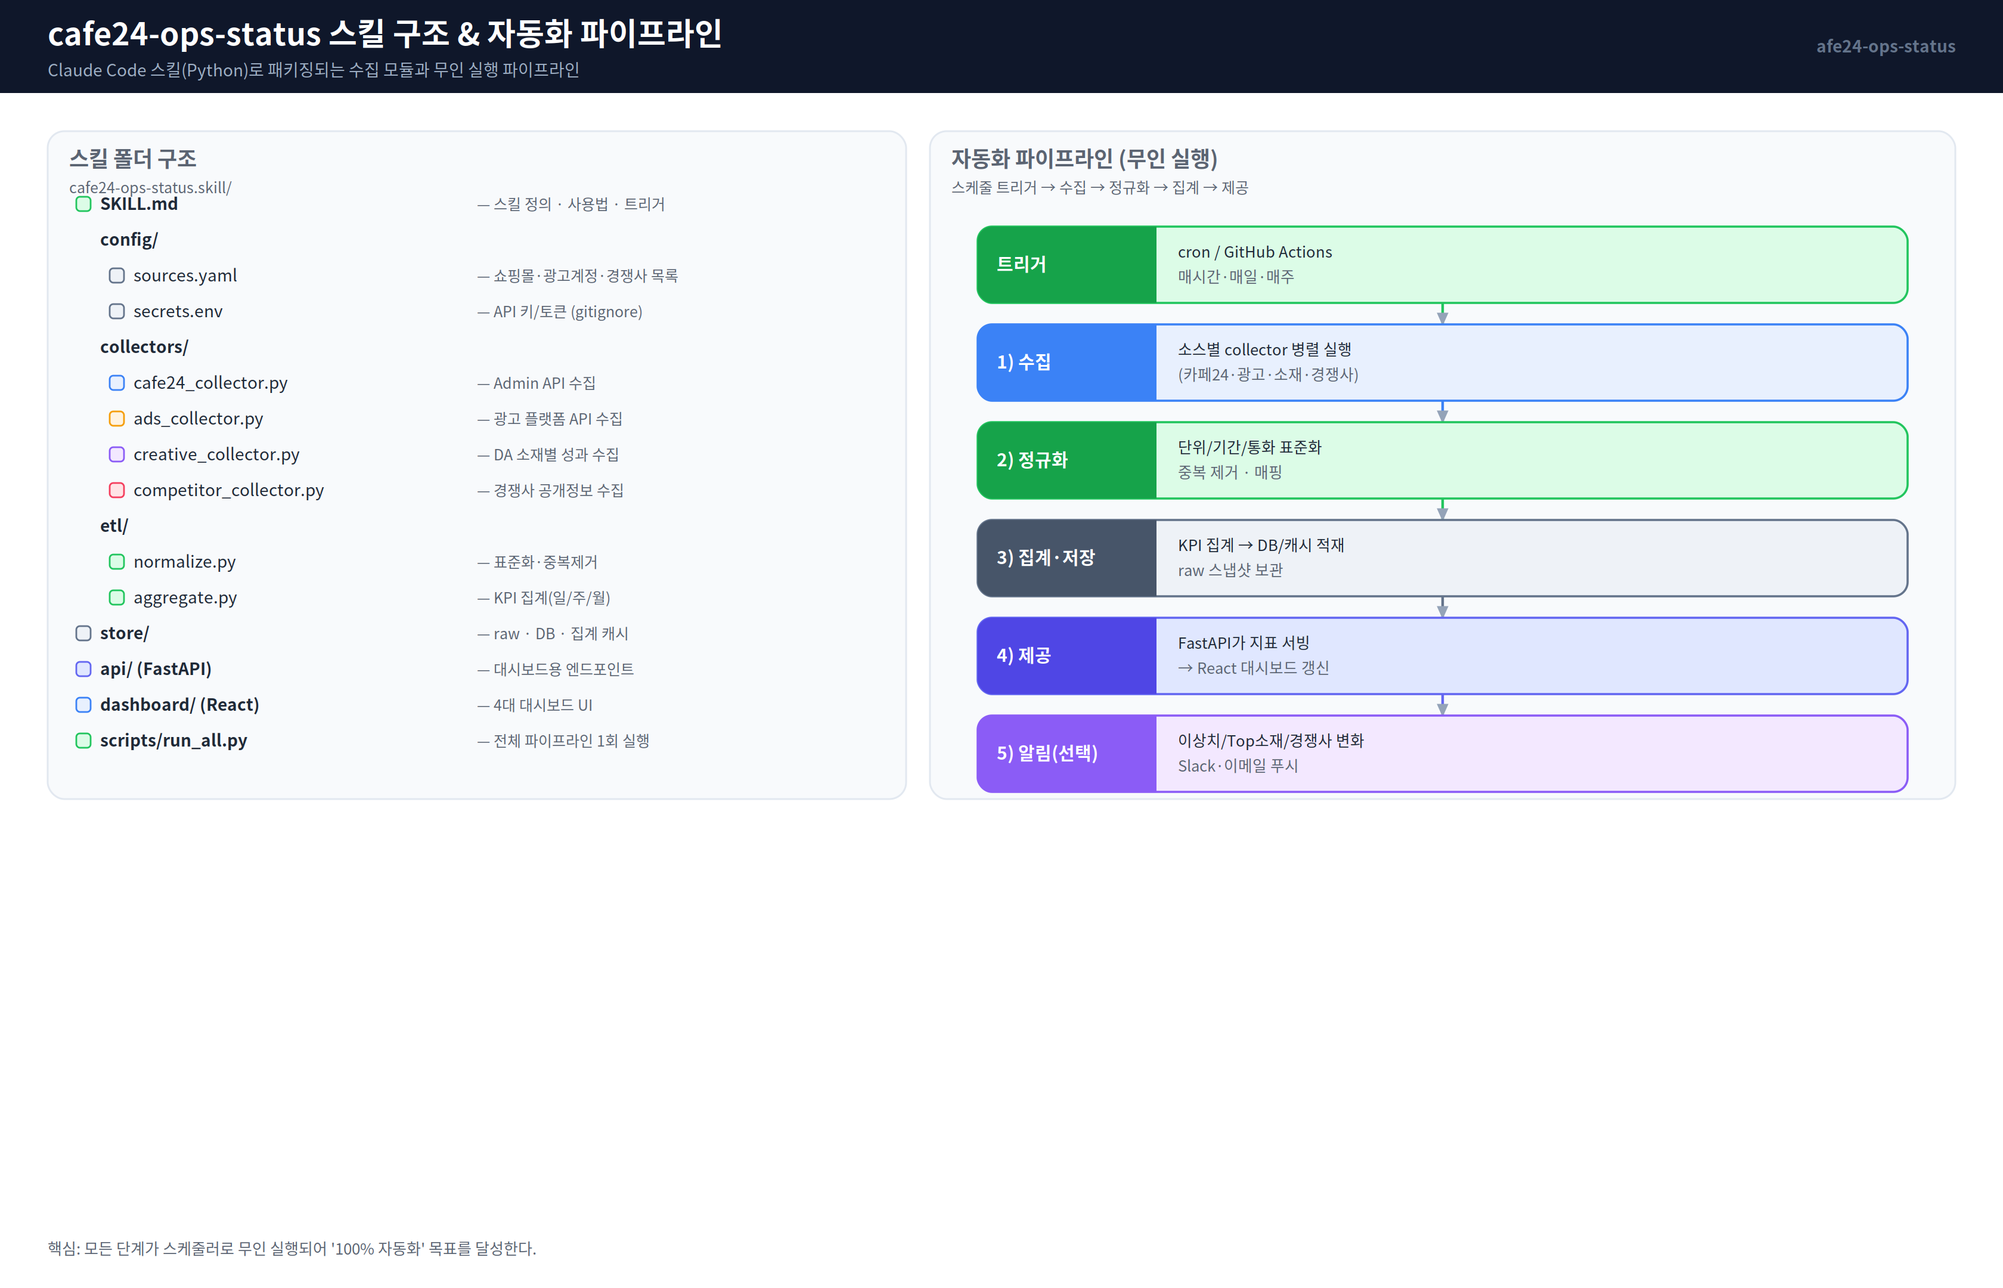
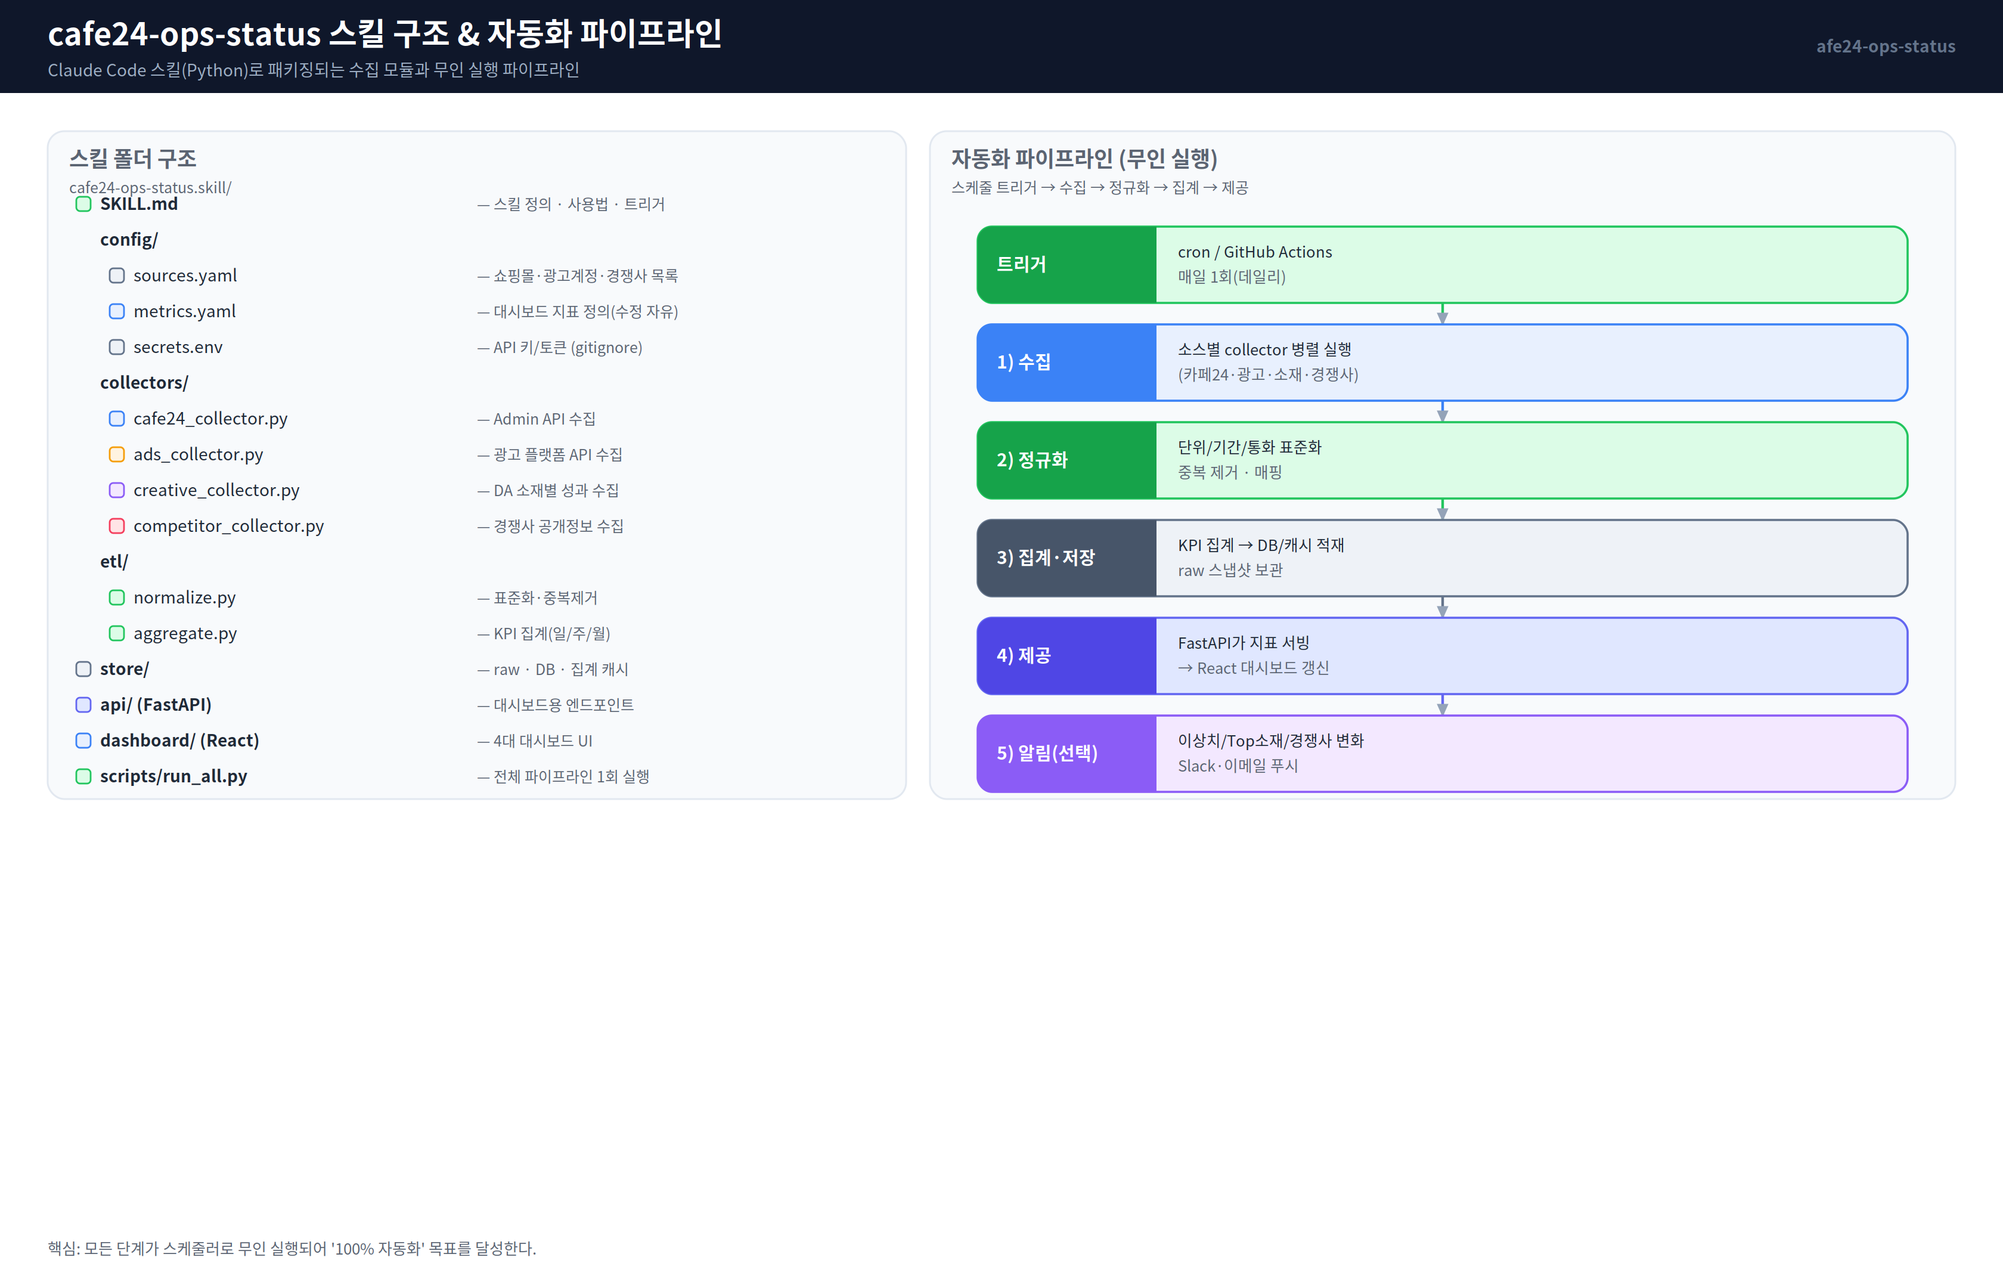
Align 카페24 KPIs with existing keek dashboard; daily collection; config-driven metrics
- 카페24 어드민 대시보드 지표를 기존 keek 운영 대시보드와 동일하게 구성
  (요약 KPI·기간비교 표·일별 운영 데이터 그룹·차트 5종)
- 새 도면 05_cafe24_dashboard_detail 추가
- 수집 주기를 데일리(매일 1회)로 변경 (도면/문서 반영)
- 지표를 config/metrics.yaml 기반으로 정의해 수정 자유도 확보 (예시 파일 추가)

Claude-Session: https://claude.ai/code/session_01Hp9h3Eea6c6WEV3RQyCdQ8

Changed region(s): [[0.0312, 0.2171, 0.1562, 0.6204], [0.25, 0.2171, 0.3438, 0.6204], [0.5938, 0.1861, 0.625, 0.2171]]

diff --git a/docs/afe24-ops-dashboard/diagrams/generate_diagrams.py b/docs/afe24-ops-dashboard/diagrams/generate_diagrams.py
@@ -109,6 +109,45 @@ class SVG:
     def vflow(self, cx, y1, y2, color="#94a3b8"):
         self.arrow(cx, y1, cx, y2, color=color, width=2.6)
 
+    def kpi(self, x, y, w, h, key, label, value):
+        p = PALETTE[key]
+        self.parts.append(f'<rect x="{x}" y="{y}" width="{w}" height="{h}" rx="10" '
+                          f'fill="#ffffff" stroke="{p["stroke"]}" stroke-width="1.6"/>')
+        self.parts.append(f'<rect x="{x}" y="{y}" width="{w}" height="5" rx="2.5" fill="{p["head"]}"/>')
+        self.text(x + 14, y + 28, label, size=12.5, fill=SUBINK)
+        self.text(x + 14, y + 56, value, size=20, fill=INK, weight="bold")
+
+    def table(self, x, y, w, headers, rows, col_ratios=None, row_h=27,
+              head_fill="#475569", zebra="#f1f5f9", font=11.5):
+        n = len(headers)
+        ratios = col_ratios or [1] * n
+        tot = sum(ratios)
+        widths = [w * r / tot for r in ratios]
+        xs = [x]
+        for cw in widths:
+            xs.append(xs[-1] + cw)
+        self.parts.append(f'<rect x="{x}" y="{y}" width="{w}" height="{row_h}" rx="6" fill="{head_fill}"/>')
+        for i, htxt in enumerate(headers):
+            anchor = "start" if i == 0 else "middle"
+            tx = xs[i] + 12 if i == 0 else (xs[i] + xs[i + 1]) / 2
+            self.text(tx, y + row_h / 2 + 4.5, htxt, size=font + 0.5, fill="#ffffff",
+                      weight="bold", anchor=anchor)
+        for r, row in enumerate(rows):
+            ry = y + row_h * (r + 1)
+            if r % 2 == 1:
+                self.parts.append(f'<rect x="{x}" y="{ry}" width="{w}" height="{row_h}" fill="{zebra}"/>')
+            for i, cell in enumerate(row):
+                anchor = "start" if i == 0 else "middle"
+                tx = xs[i] + 12 if i == 0 else (xs[i] + xs[i + 1]) / 2
+                val, color = (cell if isinstance(cell, tuple) else (cell, INK))
+                weight = "bold" if i == 0 else "normal"
+                self.text(tx, ry + row_h / 2 + 4.5, val, size=font, fill=color,
+                          weight=weight, anchor=anchor)
+        th = row_h * (len(rows) + 1)
+        self.parts.append(f'<rect x="{x}" y="{y}" width="{w}" height="{th}" rx="6" '
+                          f'fill="none" stroke="{BANDLINE}" stroke-width="1.2"/>')
+        return th
+
     def render(self, name):
         marker = (
             '<defs><marker id="arr" markerWidth="11" markerHeight="11" refX="8" refY="5" '
@@ -176,7 +215,7 @@ def diagram_system():
            "ETL · 정규화 엔진", ["단위/통화/기간 표준화 · 중복제거 · 일/주/월 집계"], title_size=13.5)
     s.card(L + 18 + (R - L - 18 * 3) / 2 + 18, by + 162, (R - L - 18 * 3) / 2, 52, "skill",
            "스케줄러 (cron · GitHub Actions)",
-           ["정기 자동 실행 — 매시간/매일/매주 트리거로 100% 무인 수집"], title_size=13.5)
+           ["매일 1회(데일리) 전일자 데이터 자동 수집 — 100% 무인"], title_size=13.5)
 
     # ---- Band C: 데이터 저장 -------------------------------------------
     cy = 560
@@ -200,7 +239,7 @@ def diagram_system():
     s.band(L, ey, R - L, 250, "⑤ 프론트엔드 — React 웹 대시보드", None)
     dw = (R - L - 18 * 5) / 4
     dboards = [
-        ("c24",  "카페24 어드민\n대시보드", ["매출·주문·방문", "전환·재고·회원", "운영 KPI 한눈에"]),
+        ("c24",  "카페24 어드민\n대시보드", ["매출·주문·전환·객단가", "방문/재방문·카테고리", "디바이스·베스트·CRM"]),
         ("ads",  "광고 대시보드", ["ROAS·광고비·기여", "채널별 성과", "자사몰 현황과 결합"]),
         ("hist", "광고 히스토리\n대시보드", ["DA 소재별 데이터", "Top 소재 자동 선별", "성과 추세 비교"]),
         ("comp", "경쟁사 모니터링\n대시보드", ["프로모션·광고", "베스트·후기 추적", "벤치마킹 인사이트"]),
@@ -236,8 +275,8 @@ def diagram_dashboards():
 
     blocks = [
         ("c24", "카페24 어드민 대시보드",
-         "자사몰 운영에 필요한 데이터를 자동 수집해 판매 활동을 지원",
-         [("핵심 지표", ["매출/객단가/주문수", "방문수·전환율·장바구니", "재고·품절임박·재구매율", "신규/기존 회원, 쿠폰"]),
+         "기존 keek 운영 대시보드와 동일 지표 · 데일리 수집 (상세: 도면 05)",
+         [("핵심 지표", ["매출·주문·객단가·전환율", "방문/재방문·회원가입", "디바이스·카테고리 매출", "베스트상품·CRM·재고"]),
           ("자동으로 답하는 질문", ["오늘/이번주 매출은?", "어떤 상품이 잘 팔리나?", "어디서 이탈이 나나?"])]),
         ("ads", "광고 대시보드",
          "자사몰 현황과 광고 현황을 함께 분석",
@@ -294,6 +333,7 @@ def diagram_skill():
         ("SKILL.md", "스킬 정의 · 사용법 · 트리거", 0, "skill"),
         ("config/", "", 0, None),
         ("sources.yaml", "쇼핑몰·광고계정·경쟁사 목록", 1, "store"),
+        ("metrics.yaml", "대시보드 지표 정의(수정 자유)", 1, "c24"),
         ("secrets.env", "API 키/토큰 (gitignore)", 1, "store"),
         ("collectors/", "", 0, None),
         ("cafe24_collector.py", "Admin API 수집", 1, "c24"),
@@ -325,7 +365,7 @@ def diagram_skill():
     px, py, pw, ph = tx + tw + 20, 110, R - (tx + tw + 20), 560
     s.band(px, py, pw, ph, "자동화 파이프라인 (무인 실행)", "스케줄 트리거 → 수집 → 정규화 → 집계 → 제공")
     steps = [
-        ("skill", "트리거", "cron / GitHub Actions\n매시간·매일·매주"),
+        ("skill", "트리거", "cron / GitHub Actions\n매일 1회(데일리)"),
         ("c24",   "1) 수집", "소스별 collector 병렬 실행\n(카페24·광고·소재·경쟁사)"),
         ("skill", "2) 정규화", "단위/기간/통화 표준화\n중복 제거 · 매핑"),
         ("store", "3) 집계·저장", "KPI 집계 → DB/캐시 적재\nraw 스냅샷 보관"),
@@ -433,9 +473,132 @@ def diagram_roadmap():
     s.render("04_roadmap")
 
 
+# =======================================================================
+# 5. 카페24 어드민 대시보드 상세 (기존 keek 대시보드와 동일 지표)
+# =======================================================================
+def diagram_cafe24_detail():
+    W, H = 1680, 1300
+    s = SVG(W, H, bg="#ffffff")
+    header(s, "카페24 어드민 대시보드 — 상세 설계",
+           "기존 keek 운영 대시보드와 동일 지표 구성 · 데일리(매일 1회) 자동 수집 · 모든 지표는 config/metrics.yaml로 자유 수정")
+    L, R = 40, W - 40
+    red = "#dc2626"
+    grn = "#16a34a"
+
+    # ---- 상단 요약 KPI 카드 -------------------------------------------
+    s.text(L, 104, "상단 요약 KPI", size=15, fill=SUBINK, weight="bold")
+    kpis = [("매출", "₩26,723,153"), ("광고 매출액", "—"), ("주문건수", "221건"),
+            ("객단가", "₩120,919"), ("구매전환율", "1.02%"), ("매출대비 광고비율", "23.72%")]
+    ky = 116
+    kw = (R - L - 14 * 5) / 6
+    for i, (lab, val) in enumerate(kpis):
+        s.kpi(L + i * (kw + 14), ky, kw, 78, "c24", lab, val)
+
+    # ---- 핵심 지표 기간 비교 표 ----------------------------------------
+    ty = 226
+    s.text(L, ty - 8, "핵심 지표 기간 비교", size=15, fill=SUBINK, weight="bold")
+    headers = ["지표", "최근 7일", "직전 7일", "당월 누적", "전월 동기", "전년 동기"]
+    rows = [
+        ["매출", "₩705,912", "₩16,379,939", "₩26,723,153", "₩16,160,042", "₩6,309,987"],
+        ["수주건수", "65", "130", "221", "131", "70"],
+        ["객단가", "₩118,552", "₩125,000", "₩120,919", "₩123,359", "₩90,148"],
+        ["구매전환율", "1.14%", "1.04%", "1.02%", "0.55%", "0.35%"],
+        ["방문자", "5,703", "12,494", "21,742", "23,951", "19,938"],
+        ["광고비용", "₩935,475", "₩3,885,160", "₩6,338,937", "₩9,848,709", "₩40,010"],
+        ["매출대비 광고비율", "8.55%", "23.72%", "23.72%", "54.76%", "0.63%"],
+    ]
+    s.table(L, ty + 6, R - L, headers, rows, col_ratios=[2.0, 1.3, 1.3, 1.3, 1.3, 1.3])
+
+    # ---- 일별 운영 데이터 표 (구분 그룹) -------------------------------
+    gy = 480
+    s.text(L, gy - 8, "일별 운영 데이터 (구분 그룹별 · 일자별 컬럼으로 전개)", size=15, fill=SUBINK, weight="bold")
+    groups = [
+        ("매출·주문", ["매출합계", "주문수 · 객단가", "순매출 · 구매전환율", "취소 · 환불금액"]),
+        ("방문자", ["전체 · 신규 · 재방문", "재방문율", "신규가입수 · 가입율"]),
+        ("CRM", ["문자 · 알림톡", "카카오", "후기수"]),
+        ("모바일(결제)", ["매출 · 주문건수", "객단가 · 결제비중"]),
+        ("PC", ["매출 · 주문건수", "객단가 · PC비중"]),
+        ("재고·장바구니", ["장바구니 · 재고수량", "입고예정 · 품절", "외부채널 비율"]),
+        ("카테고리 매출", ["All · BEST · NEW", "Travel · Filovely", "Recovery · HOODIE …"]),
+        ("베스트 상품 TOP", ["상품별 매출 순위", "(TOP N 자동 정렬)"]),
+    ]
+    gcols = 4
+    gw = (R - L - 16 * (gcols - 1)) / gcols
+    gh = 132
+    for i, (name, items) in enumerate(groups):
+        r, c = divmod(i, gcols)
+        x = L + c * (gw + 16)
+        y = gy + 8 + r * (gh + 14)
+        s.card(x, y, gw, gh, "c24", name, items, title_size=13.5, body_size=12.5)
+
+    # ---- 차트 5종 ------------------------------------------------------
+    cy = 800
+    s.text(L, cy - 8, "차트 5종", size=15, fill=SUBINK, weight="bold")
+    charts = ["① 일별 매출 추이\n(누적 vs 목표)", "② 디바이스별 매출 비중\n(모바일/PC)",
+              "③ 신규 vs 재구매 매출\n(일별)", "④ 일별 광고비\nvs 매출대비 광고비율",
+              "⑤ 카테고리 매출\nTOP 10"]
+    chtypes = ["barline", "donut", "area", "barline", "hbar"]
+    cw5 = (R - L - 16 * 4) / 5
+    chh = 150
+    cyy = cy + 8
+    for i, (title, kind) in enumerate(zip(charts, chtypes)):
+        x = L + i * (cw5 + 16)
+        p = PALETTE["c24"]
+        s.parts.append(f'<rect x="{x}" y="{cyy}" width="{cw5}" height="{chh}" rx="10" '
+                       f'fill="#ffffff" stroke="{p["stroke"]}" stroke-width="1.6"/>')
+        t1, t2 = title.split("\n")
+        s.text(x + 12, cyy + 24, t1, size=12.5, fill=INK, weight="bold")
+        s.text(x + 12, cyy + 42, t2, size=11.5, fill=SUBINK)
+        # mini glyph
+        gx, gyc, gw2, gh2 = x + 20, cyy + 70, cw5 - 40, 60
+        col = p["head"]
+        if kind == "barline":
+            bars = [0.4, 0.7, 0.3, 0.9, 0.55, 0.8]
+            bw = gw2 / (len(bars) * 1.6)
+            for j, hbar in enumerate(bars):
+                bx = gx + j * (gw2 / len(bars))
+                s.parts.append(f'<rect x="{bx}" y="{gyc + gh2 - gh2*hbar}" width="{bw}" '
+                               f'height="{gh2*hbar}" fill="{col}" opacity="0.55"/>')
+            pts = " ".join(f"{gx + j*(gw2/len(bars)) + bw/2},{gyc + gh2 - gh2*min(1,(0.2+0.13*j))}"
+                           for j in range(len(bars)))
+            s.parts.append(f'<polyline points="{pts}" fill="none" stroke="{INK}" stroke-width="2"/>')
+        elif kind == "donut":
+            ccx, ccy = gx + gw2 / 2, gyc + gh2 / 2
+            s.parts.append(f'<circle cx="{ccx}" cy="{ccy}" r="26" fill="none" stroke="{col}" stroke-width="12"/>')
+            s.parts.append(f'<circle cx="{ccx}" cy="{ccy}" r="26" fill="none" stroke="{PALETTE["ads"]["head"]}" '
+                           f'stroke-width="12" stroke-dasharray="55 200" transform="rotate(-90 {ccx} {ccy})"/>')
+        elif kind == "area":
+            s.parts.append(f'<polygon points="{gx},{gyc+gh2} {gx},{gyc+gh2-12} '
+                           f'{gx+gw2*0.3},{gyc+gh2-40} {gx+gw2*0.55},{gyc+gh2-18} '
+                           f'{gx+gw2*0.8},{gyc+gh2-34} {gx+gw2},{gyc+gh2-20} {gx+gw2},{gyc+gh2}" '
+                           f'fill="{col}" opacity="0.45"/>')
+        elif kind == "hbar":
+            vals = [0.95, 0.8, 0.66, 0.55, 0.4]
+            bh3 = gh2 / (len(vals) * 1.5)
+            for j, v in enumerate(vals):
+                by = gyc + j * (gh2 / len(vals))
+                s.parts.append(f'<rect x="{gx}" y="{by}" width="{gw2*v}" height="{bh3}" '
+                               f'fill="{col}" opacity="0.6"/>')
+
+    # ---- 하단 안내(자유도 / 데일리) -----------------------------------
+    ny = cyy + chh + 26
+    s.parts.append(f'<rect x="{L}" y="{ny}" width="{R-L}" height="120" rx="12" '
+                   f'fill="#ecfdf5" stroke="{grn}" stroke-width="1.6"/>')
+    s.text(L + 20, ny + 32, "수정 자유도 & 수집 주기", size=15, fill=grn, weight="bold")
+    notes = [
+        "• 카드 · 표 · 차트의 모든 지표는 config/metrics.yaml에 선언 → 추가/삭제/순서변경/이름변경이 코드 수정 없이 가능",
+        "• 수집은 시간별이 아닌 데일리(매일 1회, 전일자 기준) · 집계 단위: 일/주(7일)/당월/전월/전년 동기 비교",
+        "• 지표 그룹·카테고리·베스트 TOP N 개수도 설정값 → 운영하며 자유롭게 튜닝",
+    ]
+    s.lines(L + 20, ny + 58, notes, size=12.8, fill=INK, lh=22)
+
+    s.render("05_cafe24_dashboard_detail")
+
+
 if __name__ == "__main__":
     diagram_system()
     diagram_dashboards()
     diagram_skill()
     diagram_roadmap()
+    diagram_cafe24_detail()
     print("done")

diff --git a/docs/afe24-ops-dashboard/README.md b/docs/afe24-ops-dashboard/README.md
@@ -6,6 +6,8 @@
 - **산출물**: React 웹 대시보드
 - **데이터 소스**: 카페24 Admin API · 광고 플랫폼 API · 경쟁사 공개 데이터(크롤링/검색)
 - **수집/처리**: Claude Code 스킬(Python) + 스케줄러로 무인 실행
+- **수집 주기**: **데일리(매일 1회, 전일자 기준)** — 시간별 수집은 하지 않음
+- **지표 자유도**: 카페24 지표는 **기존 keek 운영 대시보드와 동일** 구성을 기본값으로 하되, 모두 `config/metrics.yaml`로 정의 → 추가/삭제/순서변경 자유
 - **이 문서의 범위**: 전체 아키텍처 설계도면(이미지) — 구현은 다음 단계
 
 ---
@@ -30,12 +32,26 @@
 
 ![4대 대시보드 구성](diagrams/02_dashboards_map.png)
 
-1. **카페24 어드민 대시보드** — 매출·주문·방문·전환·재고·회원 등 자사몰 운영 KPI 자동 수집
+1. **카페24 어드민 대시보드** — 기존 keek 운영 대시보드와 동일 지표 구성 (상세는 §2-1)
 2. **광고 대시보드** — 자사몰 현황 + 광고 현황을 결합해 ROAS·채널 효율 분석
 3. **광고 히스토리 대시보드** — DA 채널 소재별 데이터로 성과 좋은 소재 자동 선별
 4. **경쟁사 모니터링 대시보드** — 경쟁사 프로모션·광고·베스트·후기 추적 → 벤치마킹
 
 4개 모두 **100% 자동화**가 목표(무인 수집·갱신).
+
+### 2-1. 카페24 어드민 대시보드 상세 (기존 keek 대시보드 동일 지표)
+
+![카페24 어드민 대시보드 상세](diagrams/05_cafe24_dashboard_detail.png)
+
+| 영역 | 지표 |
+|------|------|
+| 상단 요약 KPI | 매출 · 광고 매출액 · 주문건수 · 객단가 · 구매전환율 · 매출대비 광고비율 |
+| 핵심 지표 기간 비교 | 매출 · 수주건수 · 객단가 · 구매전환율 · 방문자 · 광고비용 · 광고비율 (최근7일/직전7일/당월누적/전월동기/전년동기) |
+| 일별 운영 데이터 | 매출·주문 / 방문자 / CRM / 모바일(결제) / PC / 재고·장바구니 / 카테고리 매출 / 베스트 상품 TOP |
+| 차트 5종 | 일별 매출추이(누적 vs 목표) · 디바이스별 매출비중 · 신규 vs 재구매 · 일별 광고비 vs 광고비율 · 카테고리 매출 TOP10 |
+
+> 위 지표는 모두 [`config/metrics.example.yaml`](config/metrics.example.yaml)에 선언되어 있어,
+> **코드 수정 없이** 카드·표·차트의 지표를 추가/삭제/순서변경/이름변경할 수 있다. 수집은 **데일리(매일 1회)**.
 
 ---
 
@@ -48,6 +64,7 @@ cafe24-ops-status.skill/
 ├── SKILL.md                 # 스킬 정의 · 사용법 · 트리거
 ├── config/
 │   ├── sources.yaml         # 쇼핑몰·광고계정·경쟁사 목록
+│   ├── metrics.yaml         # 대시보드 지표 정의 (수정 자유)
 │   └── secrets.env          # API 키/토큰 (gitignore)
 ├── collectors/
 │   ├── cafe24_collector.py
@@ -63,7 +80,7 @@ cafe24-ops-status.skill/
 └── scripts/run_all.py       # 전체 파이프라인 1회 실행
 ```
 
-**파이프라인**: `트리거(cron/GitHub Actions) → 수집 → 정규화 → 집계·저장 → API 제공 → (선택) 알림`.
+**파이프라인**: `트리거(매일 1회 데일리) → 수집 → 정규화 → 집계·저장 → API 제공 → (선택) 알림`.
 모든 단계가 스케줄러로 무인 실행되어 "100% 자동화"를 달성한다.
 
 ---
